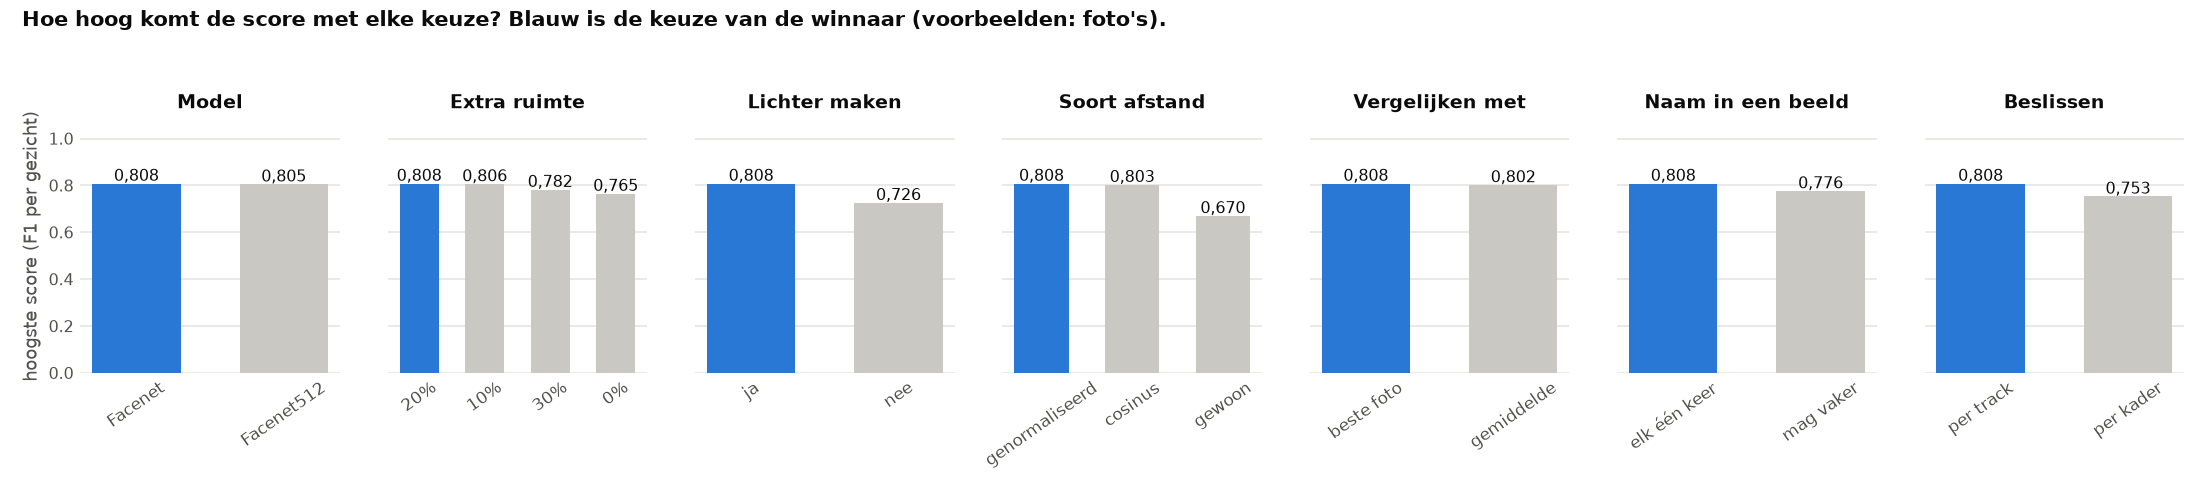
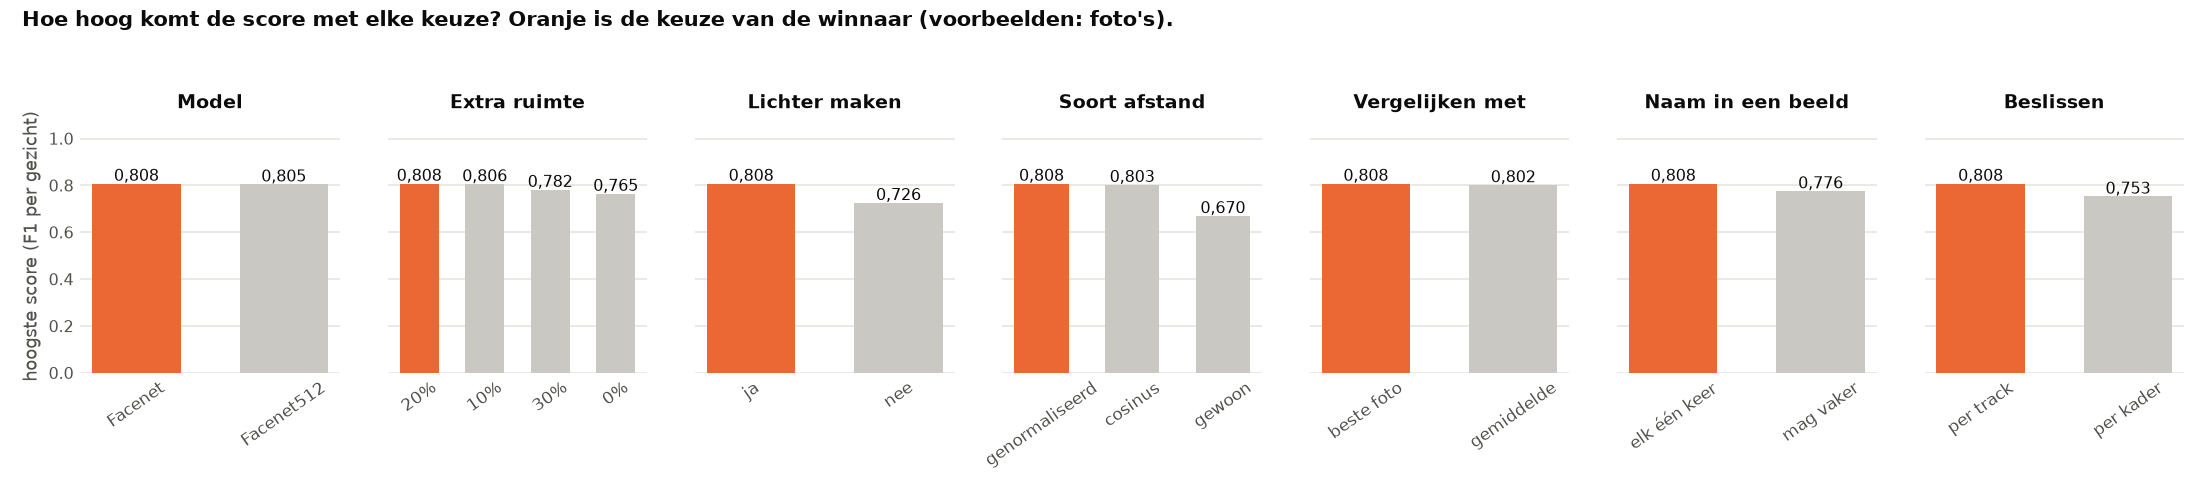
Afstel-grafieken in oranje, en het filmpje stopt als een video niet helemaal gelezen is

diff --git a/experimenten/gedeeld/filmpje.py b/experimenten/gedeeld/filmpje.py
@@ -26,7 +26,8 @@ def make(found: pd.DataFrame, path, caption: str) -> None:
     ffmpeg = subprocess.Popen(["ffmpeg", "-y", "-loglevel", "error", "-f", "rawvideo", "-pix_fmt", "bgr24", "-s", f"{WIDTH}x{HEIGHT}",
                                "-r", "25", "-i", "-", "-c:v", "libx264", "-crf", "28", "-preset", "medium", "-pix_fmt", "yuv420p",
                                "-movflags", "+faststart", str(path)], stdin=subprocess.PIPE)
-    for video in sorted(pd.read_csv(FRAMES)["video"].unique()):
+    expected = pd.read_csv(FRAMES)["video"].value_counts()
+    for video in sorted(expected.index):
         boxes = {f: g for f, g in shown[shown["bestand"] == video].groupby("beeld")}
         capture, index = cv2.VideoCapture(str(MOVIES / video)), 0
         while True:                                       # op volgorde lezen, nooit naar een beeld springen
@@ -49,6 +50,9 @@ def make(found: pd.DataFrame, path, caption: str) -> None:
             ffmpeg.stdin.write(image.tobytes())
             index += 1
         capture.release()
+        if index != expected[video]:                      # anders wordt het filmpje stilletjes te kort
+            ffmpeg.stdin.close()
+            raise SystemExit(f"{video}: {index} van de {expected[video]} beelden gelezen. Draai deze stap opnieuw.")
         print(f"  {video}: {index} beelden")
     ffmpeg.stdin.close()
     ffmpeg.wait()
